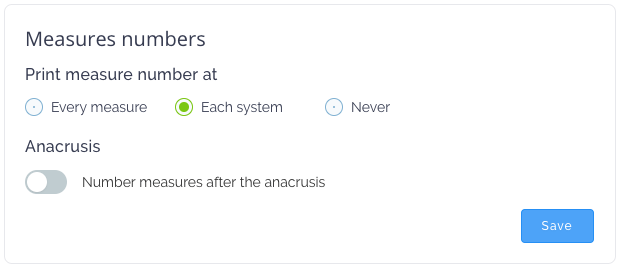
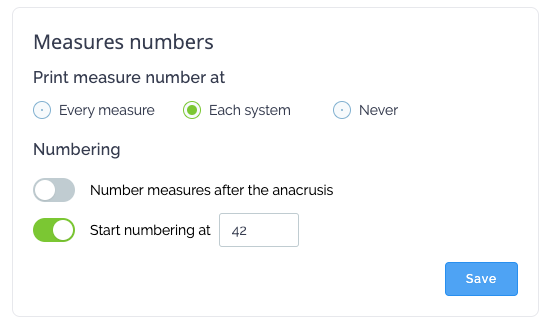
doc(measure-number): option to start numbering at a different number

diff --git a/docs/en/editor/layout-measures-numbers.md b/docs/en/editor/layout-measures-numbers.md
@@ -14,10 +14,20 @@ On our desktop web app, this is usually located on the right of your screen, or 
 
 ![Layout settings button](/help/assets/img/editor/toolbar-print-layout.png)
 
+All the following options are available in the **Measures Numbers** block.
+
+![Measures staves](/help/assets/img/editor/layout-measures-numbers.png)
+
 ## Measures Numbers Policy
 
 Under the **Measures Numbers** settings, you can choose how the measures numbers are printed. By default, we print them at every system, but you can choose to print them at every measure or simply hide them.
 
+## Start numbering after an anacrusis
+
 If you have [an anacusis in your score](/help/en/music-notation-software/timesig.html#pickup-anacrusis) and want to start numbering the measures after the anacrusis, you can activate the option that will shift the measures numbers.
 
-![Measures staves](/help/assets/img/editor/layout-measures-numbers.png)
+## Custom measures numbers
+
+When you work on multi-files projects (e.g. with multiple movements), you might want to have your measures numbering to start at a greater measure number than 1.
+
+In the **Measure Numbers** block, you can choose to start the numbering at a different number by enabling **Start numbering at ...**.
